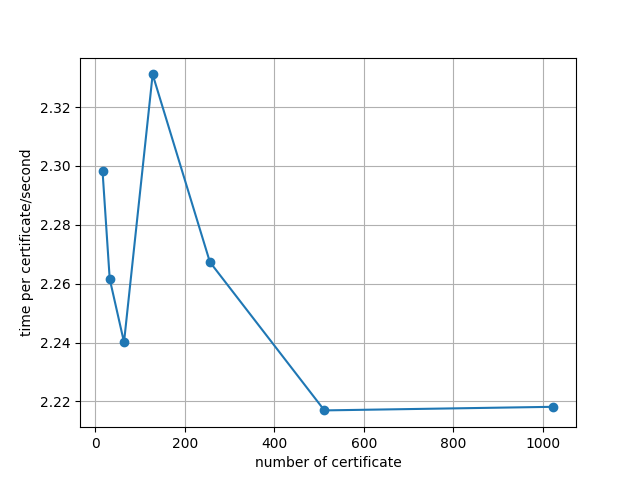
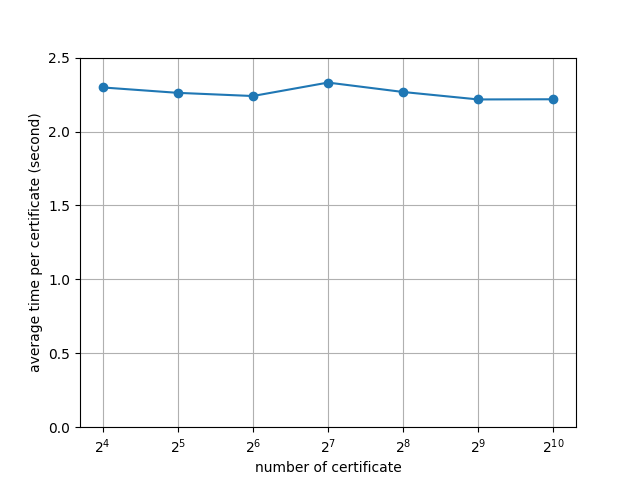
update figures

diff --git a/plot.py b/plot.py
@@ -2,7 +2,7 @@
 import numpy as np
 import matplotlib.pyplot as plt
 import re
-
+import statistics
 x = np.array([pow(2, 4),	pow(2, 5),	pow(2, 6),	pow(
     2, 7),	pow(2, 8),	pow(2, 9), pow(2, 10)])
 
@@ -16,25 +16,31 @@ e2e_log = open(FOLDER_PATH+"/e2etime.log", "r")
 upload_log = open(FOLDER_PATH+"/upload.log", "r")
 verify_log = open(FOLDER_PATH+"/verify.log", "r")
 
-e2e_time = upload_time = verify_time = np.array([])
+e2e_time = e2e_time_std = upload_time = verify_time = verify_time_std = np.array([
+])
 
 for line in e2e_log.readlines():
     line = line.strip()
     if len(line) > 58:
-        res = float(re.findall("\d+\.\d+", line)[0])
-        e2e_time = np.append(e2e_time, res)
+        # print(line)
+
+        result = re.findall("\d+\.\d+", line)
+        e2e_time = np.append(e2e_time, float(result[0]))
+        e2e_time_std = np.append(e2e_time_std, float(result[1]))
 
 for line in upload_log.readlines():
     line = line.strip()
     if len(line) > 58:
-        res = float(re.findall("\d+\.\d+", line)[0])
-        upload_time = np.append(upload_time, res)
+        average = float(re.findall("\d+\.\d+", line)[0])
+        upload_time = np.append(upload_time, average)
 
 for line in verify_log.readlines():
     line = line.strip()
     if len(line) > 58:
-        res = float(re.findall("\d+\.\d+", line)[0])
-        verify_time = np.append(verify_time, res)
+        result = re.findall("\d+\.\d+", line)
+        verify_time = np.append(verify_time, float(result[0]))
+        # verify_time_std = np.append(verify_time_std, float(result[1]))
+
 
 e2e_log.close()
 upload_log.close()
@@ -42,29 +48,71 @@ verify_log.close()
 
 
 # plt.title("issuing time diagram")
-plt.ylabel("time per certificate/second")
+plt.ylabel("average time per certificate (second)")
 plt.xlabel("number of certificate")
+plt.xscale('log', base=2)
 plt.plot(x, e2e_time, '-o')
 plt.grid()
+plt.ylim(0, 2.5)
 plt.savefig(FOLDER_PATH + "/issuing-time-diagram.png")
 plt.close()
 
-# plt.title("upload time diagram")
-plt.ylabel("total time/second")
+plt.ylabel("std time per certificate (second)")
 plt.xlabel("number of certificate")
+plt.xscale('log', base=2)
+plt.plot(x, e2e_time_std, '-o')
+plt.grid()
+plt.ylim(0, 0.5)
+plt.savefig(FOLDER_PATH + "/issuing-time-std-diagram.png")
+plt.close()
+
+
+
+# plt.title("upload time diagram")
+plt.ylabel("total time (second)")
+plt.xlabel("number of certificate")
+plt.xscale('log', base=2)
 plt.plot(x, upload_time, '-o')
 plt.grid()
+plt.ylim((0, 140))
 plt.savefig(FOLDER_PATH + "/upload-time-diagram.png")
 plt.close()
 
+plt.ylabel("average upload time per certificate (second)")
+plt.xlabel("number of certificate")
+plt.xscale('log', base=2)
+plt.plot(x, upload_time/x, '-o')
+plt.grid()
+plt.ylim((0, 0.3))
+plt.savefig(FOLDER_PATH + "/upload-time-per-cert-diagram.png")
+plt.close()
+# plt.title("upload time diagram")
+plt.ylabel("total time / second")
+plt.xlabel("number of certificate")
+# plt.xscale('log', base=2)
+plt.plot(x, upload_time, '-o')
+plt.grid()
+plt.ylim((0, 140))
+plt.savefig(FOLDER_PATH + "/upload-time-linear-diagram.png")
+plt.close()
 # plt.title("verify time diagram")
-plt.ylabel("time per certificate/second")
+plt.ylabel("average verification time per certificate (second)")
 plt.xlabel("number of certificate")
 plt.plot(x, verify_time, '-o')
+plt.xscale('log', base=2)
+# plt.ylim((0, 0.1))
 plt.grid()
 plt.savefig(FOLDER_PATH + "/verify-time-diagram.png")
 plt.close()
 
 
-#### 2.0 ~ 2.X  shrink it 
-#### 
+# # plt.title("verify time diagram")
+# plt.ylabel("std time per certificate (second)")
+# plt.xlabel("number of certificate")
+# plt.plot(x, verify_time_std, '-o')
+# plt.xscale('log', base=2)
+# plt.ylim((0, 0.01))
+
+# plt.grid()
+# plt.savefig(FOLDER_PATH + "/verify-time-std-diagram.png")
+# plt.close()
